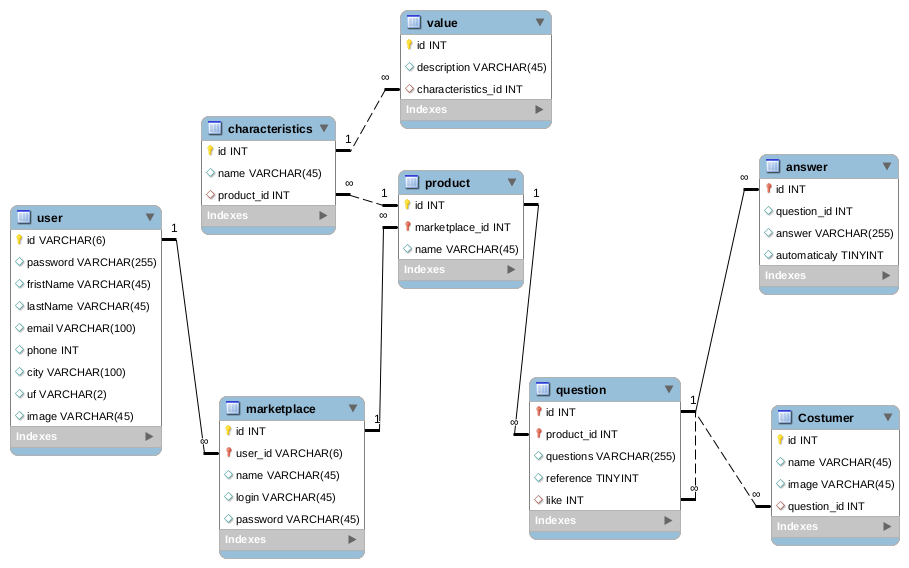
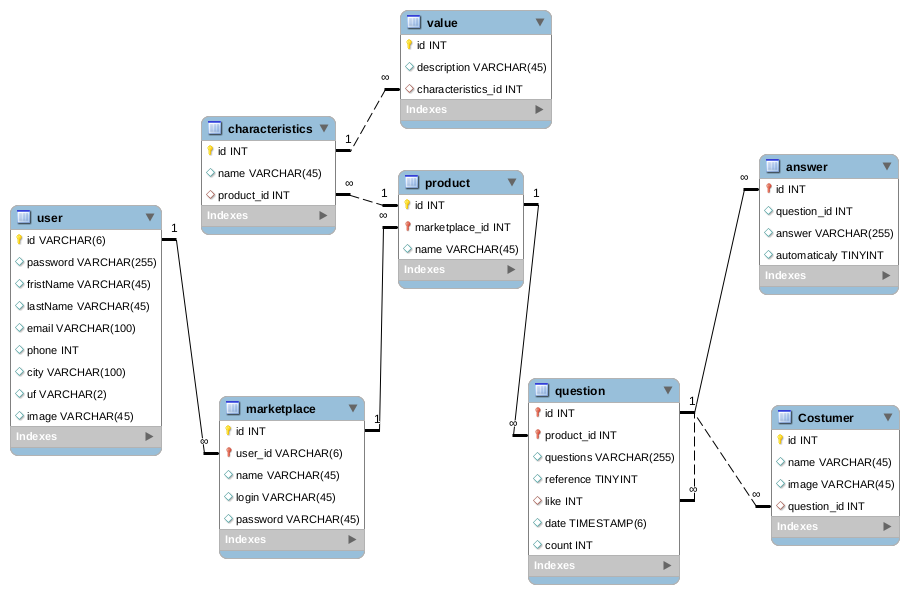
database

diff --git a/app/Backend/src/database/migrations/20200502215759_create_question.js b/app/Backend/src/database/migrations/20200502215759_create_question.js
@@ -5,7 +5,8 @@ exports.up = function (knex) {
     table.boolean("reference").defaultTo(false);
     table.integer("product_id").notNullable();
     table.integer("like");
-
+    table.timestamp("date", { options: [{ useTz: true }] });
+    table.integer("count");
     table.foreign("like").references("id").inTable("question");
 
     table.foreign("product_id").references("id").inTable("product");
